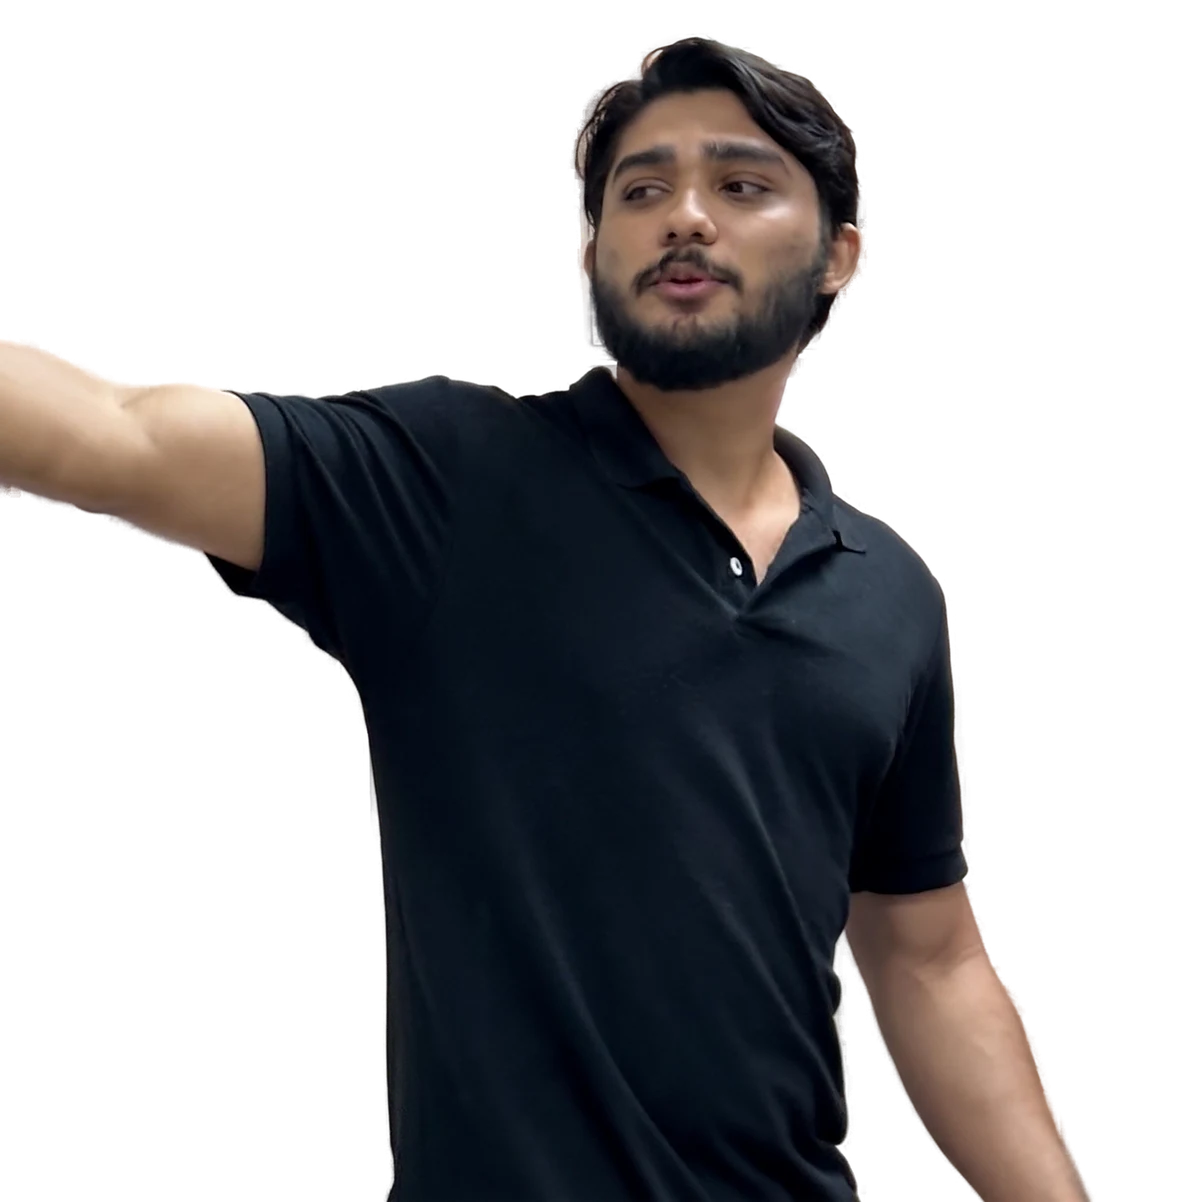
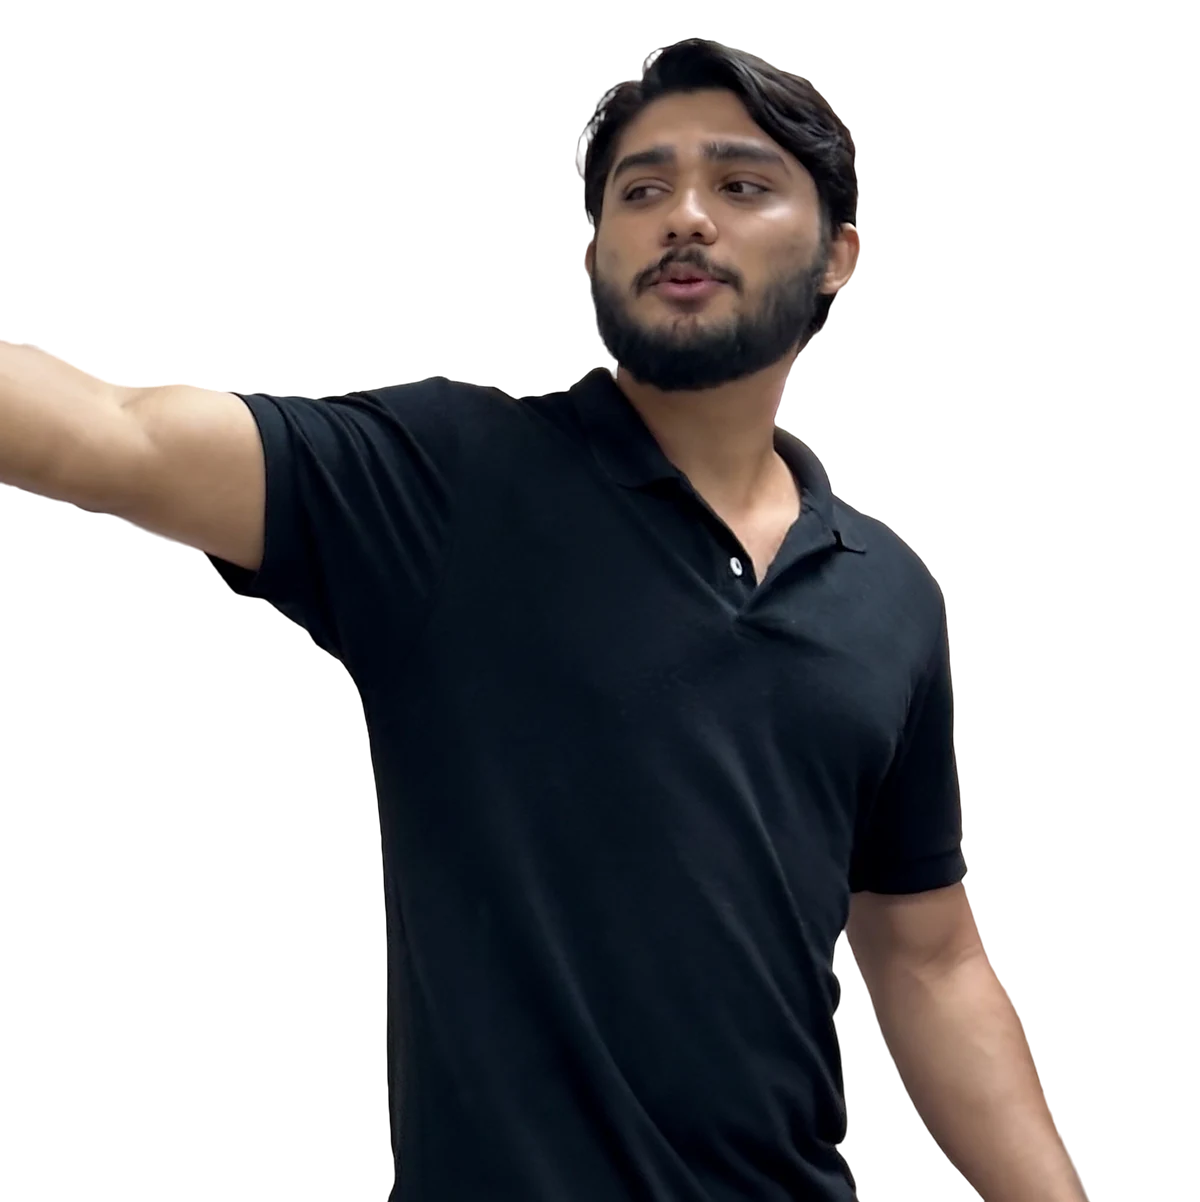
[FIX] cleaner portrait cutout and hero glow
- Redid the portrait cutout with a portrait matting model and cleaned edge colors;
- Moved the fade mask to a child so the red glow is no longer clipped above the photo;
- Removed the top-right hero glow that showed a hard edge under the opaque topbar;
- Regenerated the share image.

diff --git a/src/app/globals.css b/src/app/globals.css
@@ -175,7 +175,6 @@ html.intro-lock body {
   isolation: isolate;
   background:
     radial-gradient(55% 70% at 74% 58%, rgb(255 42 31 / 0.2), transparent 70%),
-    radial-gradient(70% 50% at 100% 0%, rgb(255 42 31 / 0.12), transparent 60%),
     var(--void);
 }
 
@@ -277,6 +276,12 @@ html.intro-lock .saber-ignite {
   aspect-ratio: 1200 / 1202;
   pointer-events: none;
   filter: drop-shadow(0 0 12px rgb(255 42 31 / 0.5)) drop-shadow(0 0 46px rgb(255 42 31 / 0.2));
+}
+
+/* O degradê fica no filho: assim o brilho do pai não é cortado pela máscara */
+.hero-portrait-fade {
+  width: 100%;
+  height: 100%;
   -webkit-mask-image: linear-gradient(180deg, #000 74%, transparent 100%), linear-gradient(90deg, transparent 2%, #000 24%);
   -webkit-mask-composite: source-in;
   mask-image: linear-gradient(180deg, #000 74%, transparent 100%), linear-gradient(90deg, transparent 2%, #000 24%);
@@ -461,6 +466,9 @@ button.hero-cta {
     left: 50%;
     height: 46svh;
     translate: -50% 0;
+  }
+
+  .hero-portrait-fade {
     -webkit-mask-image: linear-gradient(180deg, #000 70%, transparent 100%), linear-gradient(90deg, transparent 0, #000 26%);
     mask-image: linear-gradient(180deg, #000 70%, transparent 100%), linear-gradient(90deg, transparent 0, #000 26%);
   }

diff --git a/src/components/Portfolio.tsx b/src/components/Portfolio.tsx
@@ -278,7 +278,9 @@ export function Portfolio() {
         <section ref={heroRef} className={`hero hero--${mode}`} aria-labelledby="hero-title">
           <div className="hero-stage">
             <div className="hero-portrait">
-              <img src="/michael.webp" width={1200} height={1202} alt={text.portraitAlt} fetchPriority="high" />
+              <div className="hero-portrait-fade">
+                <img src="/michael.webp" width={1200} height={1202} alt={text.portraitAlt} fetchPriority="high" />
+              </div>
             </div>
 
             <div className="hero-copy">
